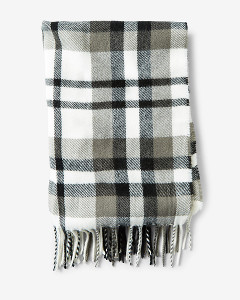
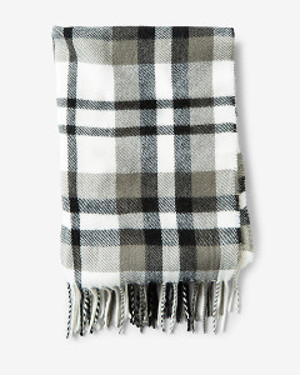
Added popover to +/- button; changed/modified images to match width; added css for buttons

diff --git a/index.html b/index.html
@@ -33,10 +33,10 @@
       </ul>
     </nav>
 
-    <img srcset="images/logo-scarfcat-100.png 100w,
-                 images/logo-scarfcat-125.png 125w"
-         sizes="(max-width: 1200px) 100px,
-                (min-width: 1201px) 125px"
+    <img srcset="images/logo-scarfcat-50.png 50w,
+                 images/logo-scarfcat-65.png 65w"
+         sizes="(max-width: 1200px) 50px,
+                (min-width: 1201px) 65px"
          src="images/logo-scarfcat.png" 
          alt="dapper cartoon cat wearing a scarf">
     <h1>
@@ -93,7 +93,16 @@
                  alt="reversible plaid scarf">
             <p>Two classic patterns in one great look: This supersoft and cozy reversible scarf instantly doubles your street-style cred. 100% acrylic.</p>
             <p>26.99</p>
-            <button onclick="cartPush('reversible-plaid', 26.99);">+/-</button>
+            <button type="button" 
+                    class="btn" 
+                    role="button"
+                    data-trigger="focus"
+                    tabindex="0"
+                    data-toggle="popover" 
+                    data-content="Added to cart"
+                    onclick="cartPush('reversible-plaid', 26.99);">
+                    +/-
+            </button>
           </div>
         </div>
 
@@ -108,7 +117,16 @@
                  alt="fringed plaid scarf">
             <p>Generously sized, extra soft and featuring a dazzling fringe, this scarf is rendered in a versatile gray, black and white plaid. Expertly beat the cold with style. 100% acrylic.</p>
             <p>18.99</p>
-            <button onclick="cartPush('fringed-plaid', 18.99);">+/-</button>
+            <button type="button" 
+                    class="btn" 
+                    role="button"
+                    data-trigger="focus"
+                    tabindex="0"
+                    data-toggle="popover" 
+                    data-content="Added to cart"
+                    onclick="cartPush('fringed-plaid', 18.99);">
+                    +/-
+            </button>
           </div>
         </div>
 
@@ -123,7 +141,16 @@
                  alt="multi-color">
             <p>The Who What Where Oversize Color-Block Square Scarf is big, bold, and designed to twist and wrap any way you wish. All the colors of the season are harmonized in this oversize accent, so you can adjust to contrast or match your outfit; soft and lush, it’s your stylish standoff against cold AC and unexpected fall breezes. 100% acrylic.</p>
             <p>22.99</p>
-            <button onclick="cartPush('multi-color', 22.99);">+/-</button>
+            <button type="button" 
+                    class="btn" 
+                    role="button"
+                    data-trigger="focus"
+                    tabindex="0"
+                    data-toggle="popover" 
+                    data-content="Added to cart"
+                    onclick="cartPush('multi-color', 22.99);">
+                    +/-
+            </button>
           </div>
         </div>
 
@@ -138,7 +165,16 @@
                  alt="northern lights scarf">
             <p>Handmade by women in Agra, sales provide medical and educational support in this remote area of India. Crinkly 100% cotton.</p>
             <p>29.99</p>
-            <button onclick="cartPush('northern-lights', 29.99);">+/-</button>
+            <button type="button" 
+                    class="btn" 
+                    role="button"
+                    data-trigger="focus"
+                    tabindex="0"
+                    data-toggle="popover" 
+                    data-content="Added to cart"
+                    onclick="cartPush('northern-lights', 29.99);">
+                    +/-
+            </button>
           </div>
         </div>
 
@@ -153,7 +189,16 @@
                  alt="ombre infinity scarf">
             <p>A dip-dye effect adds color and dimension to a cozy infinity scarf featuring a soft, chunky knit. 100% acrylic.</p>
             <p>11.99</p>
-            <button onclick="cartPush('ombre-infinity', 11.99);">+/-</button>
+            <button type="button" 
+                    class="btn" 
+                    role="button"
+                    data-trigger="focus"
+                    tabindex="0"
+                    data-toggle="popover" 
+                    data-content="Added to cart"
+                    onclick="cartPush('ombre-infinity', 11.99);">
+                    +/-
+            </button>
           </div>
         </div>
 
@@ -168,7 +213,16 @@
                  alt="twill scarf">
             <p>Faribault brings you the Ashby Twill Scarf in Natural. Woven with a 'broken' twill technique, the Ashby Twill Scarf has a slight zigzag texture. Made in USA, this timeless scarf is crafted with luxurious merino wool and finished with heather gray fringe. 100% Merino wool.</p>
             <p>70.99</p>
-            <button onclick="cartPush('twill', 70.99);">+/-</button>
+            <button type="button" 
+                    class="btn" 
+                    role="button"
+                    data-trigger="focus"
+                    tabindex="0"
+                    data-toggle="popover" 
+                    data-content="Added to cart"
+                    onclick="cartPush('twill', 70.99);"> 
+                    +/-
+            </button>
           </div>
         </div>
 
@@ -183,7 +237,16 @@
                  alt="wool cabel knit scarf">
             <p>Warm yourself with this women's natural cable knit scarf, crafted from 100% Merino wool. Imported.</p>
             <p>49.99</p>
-            <button onclick="cartPush('wool-cable-knit', 49.99);">+/-</button>
+            <button type="button" 
+                    class="btn" 
+                    role="button"
+                    data-trigger="focus"
+                    tabindex="0"
+                    data-toggle="popover" 
+                    data-content="Added to cart"
+                    onclick="cartPush('wool-cable-knit', 49.99);">
+                    +/- 
+            </button>
           </div>
         </div>
 
@@ -198,7 +261,16 @@
                  alt="etro scarf">
             <p>Luxurious silk scarf with subtle paisley pattern. 100% silk.</p>
             <p>26.99</p>
-            <button onclick="cartPush('etro', 26.99);">+/-</button>
+            <button type="button" 
+                    class="btn" 
+                    role="button"
+                    data-trigger="focus"
+                    tabindex="0"
+                    data-toggle="popover" 
+                    data-content="Added to cart"
+                    onclick="cartPush('etro', 26.99);">
+                    +/-
+            </button>
           </div>
         </div>
       </div>

diff --git a/styles/main.css b/styles/main.css
@@ -103,6 +103,8 @@ input[type="submit"] {
 
 section {
   padding: 0 .75rem;
+  width: 80%;
+  margin: auto 10%;
 }
 
 h2 {
@@ -129,14 +131,17 @@ h3 {
 
 .item {
   border: solid 1px black;
-  width: 80%;
-  margin: 2.5% 10%;
+  width: 100%;
+  margin: 2.5% auto;
+  padding-bottom: 2.5rem;
+  padding-top: 0.5rem;
   
 }
 
 section button {
-  width: 50%;
+  width: 40%;
   font-size: 1rem;
   padding: .25rem .5rem;
-  margin: auto auto 1rem auto;
+  position: relative;
+  margin-bottom: 100rem;
 }

diff --git a/js/script-array.js b/js/script-array.js
@@ -1,3 +1,7 @@
+$(function () {
+  $('[data-toggle="popover"]').popover()
+})
+
 //global variable for item names
 var cart = []
 
